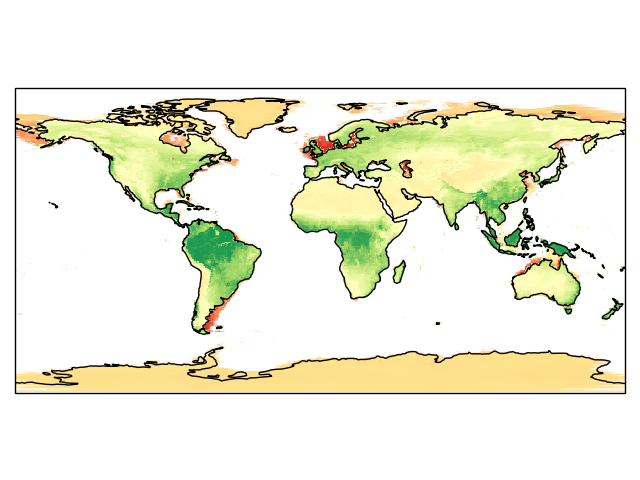
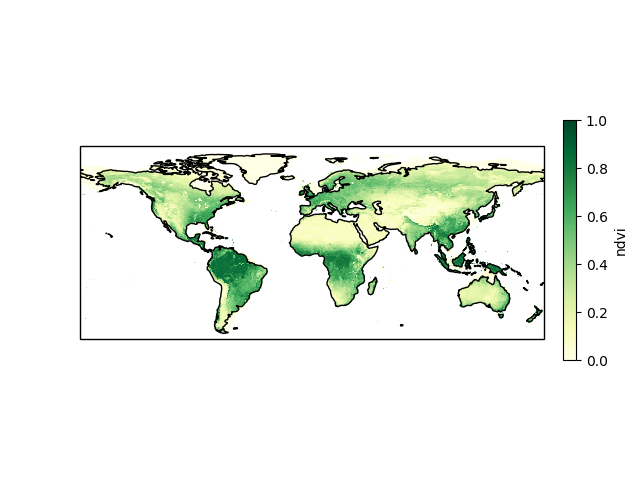
changes to readme examples and figures

diff --git a/README.md b/README.md
@@ -14,7 +14,7 @@ Or, you can install the package manually from source code using the following co
 ```
 git clone https://github.com/kmarkert/cartoee.git
 cd cartoee
-pip install -e .
+python setup.py install
 ```
 
 
@@ -77,14 +77,14 @@ modis = ee.ImageCollection('MODIS/006/MCD43A4')\
         .filterDate('2010-01-01','2016-01-01')\
         .map(calc_ndvi)
 
-# define color ramp for visualization
-cb = 'd73027,fc8d59,fee08b,ffffbf,d9ef8b,91cf60,1a9850'
-
 # get the cartopy map with EE results
-ax = cee.plot(modis.mean(),
-    visParams={'min':-0.5,'max':0.85,'bands':'ndvi','palette':cb},
+ax = cee.getMap(modis.mean(),cmap='YlGn'
+    visParams={'min':-0.5,'max':0.85,'bands':'ndvi',},
     region=[-180,-90,180,90])
+
 ax.coastlines()
+
+cb = cee.addColorbar(ax,loc='right',cmap='YlGn',visParams={'min':0,'max':1,'bands':'ndvi'})
 ```
 ![alt-text](./docs/_static/global_ndvi.png)
 
@@ -109,12 +109,18 @@ imgs = np.array([[djf,mam],[jja,son]])
 titles = np.array([['DJF','MAM'],['JJA','SON']])
 
 for i in range(len(imgs)):
-  for j in range(len(imgs[i])):
-      ax[i,j] = cee.addLayer(imgs[i,j],region=[-180,-90,180,90],
-                         visParams={'min':-0.5 ,'max':0.85,'bands':'ndvi','palette':cb},
-                         dims=500,axes=ax[i,j])
-      ax[i,j].coastlines()
-      ax[i,j].gridlines(linestyle='--')
-      ax[i,j].set_title(titles[i,j])
+    for j in range(len(imgs[i])):
+        ax[i,j] = cee.addLayer(imgs[i,j],ax=ax[i,j],
+                               region=bbox,dims=500,
+                               visParams=ndviVis,cmap='YlGn'
+                              )
+        ax[i,j].coastlines()
+        ax[i,j].gridlines(linestyle='--')
+        ax[i,j].set_title(titles[i,j])
+
+cax = fig.add_axes([0.9, 0.2, 0.02, 0.6])
+cb = cee.addColorbar(ax[i,j],cax=cax,cmap='YlGn',visParams=ndviVis)
 ```
 ![alt-text](./docs/_static/seasonal_ndvi.png)
+
+To see more examples, go to the documentation at https://cartoee.readthedocs.io!
